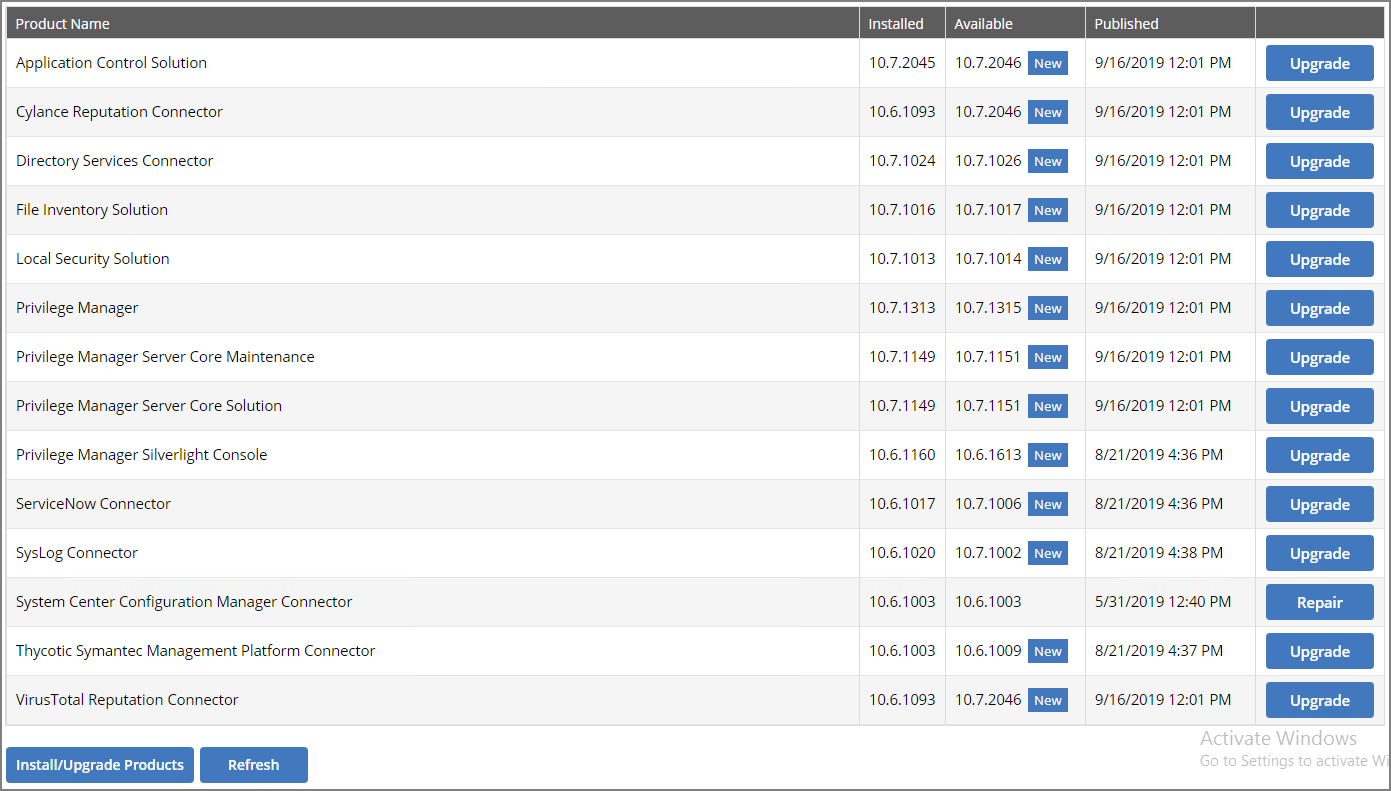
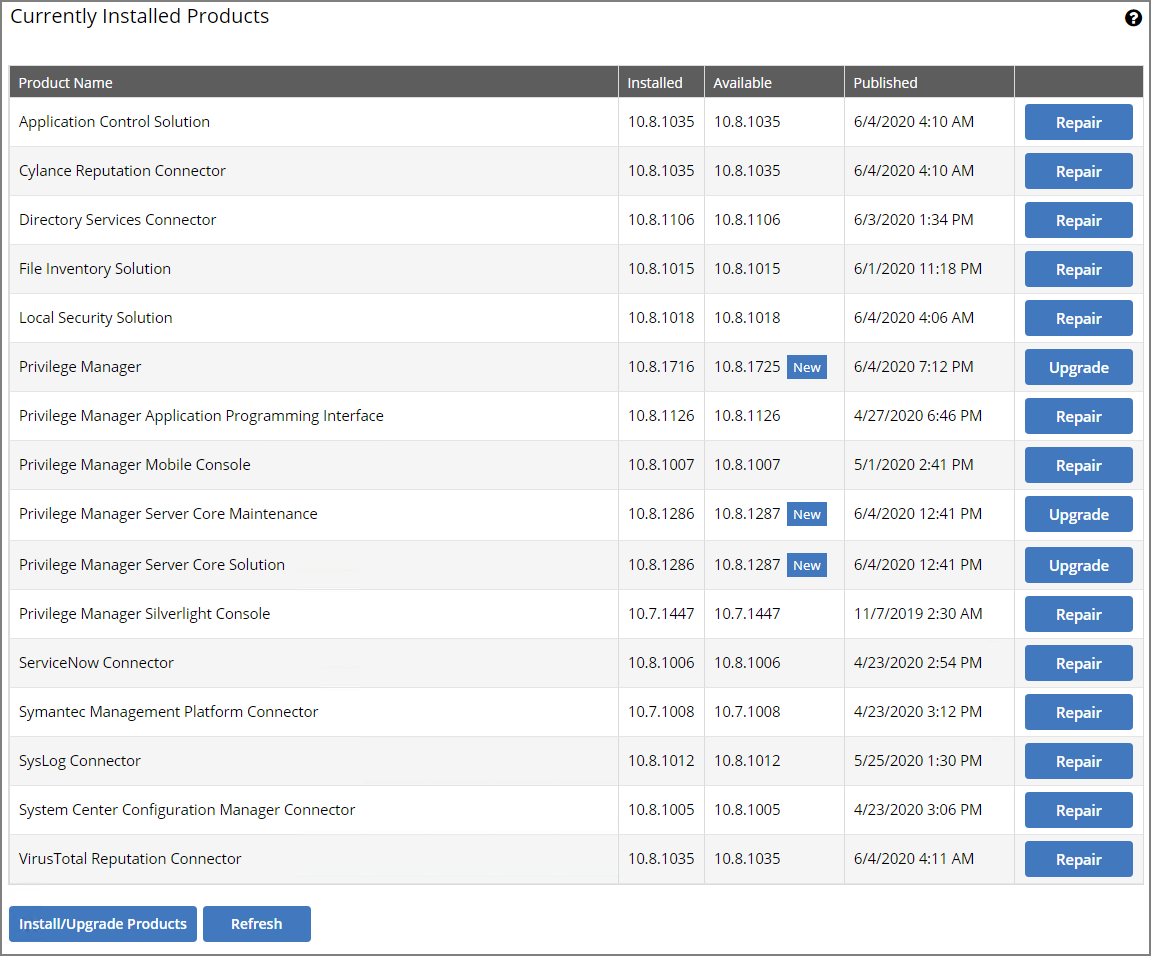
swapped images and edited text

Changed region(s): [[0.0, 0.0, 1.0, 1.0]]

diff --git a/install/upgrades/index.md b/install/upgrades/index.md
@@ -43,17 +43,21 @@ Privilege Manager provides an __Update Available__ notification banner when upda
    ![start upgrade](images/setup-start.png "Setup provided version information with Start Upgrade option")
 
    Click __Start Upgrade__.
-1. The Currently Installed Products page displays a table listing all the products by name in alphabetical order.
+1. A short _Install Complete_ message is displayed before the setup process navigates to the __Currently Installed Products__ page. The available product updates are listed by product name in alphabetical order.
 
-   ![Installed Products overview](images/package-screen.png) <!-- TODO: update the image with 10.8 based info -->
+   ![products overview](images/package-screen.png "Products overview")
 
    Use either of the following ways to upgrade your environment to the latest Privilege Manager version:
-   1. Click Upgrade next to individual packages, this will require to come back to the Installed Products page after each separate upgrade for most of the packages, or
+   1. Click Upgrade next to individual packages, this will require to come back to the Installed Products page after each separate upgrade for most of the packages, __or__
    1. Click __Install/Upgrade Products__ at the bottom of the page.
       1. Select the products you want to install/upgrade.
 
-         ![Select which products to install](images/install-products-select.png)
-      1. Select __Install__.
+         ![Select which products to install](images/install-products-select.png "Select Products to install")
+
+         By default the products available for upgrade are listed. If you want to see all products currently installed, click __Show installed products__.
+
+         ![Select which products to install](images/install-products-select-all.png "Installed Products page showing all products")
+      1. Click __Install__.
 
 The installation/upgrade process starts and you can view the log while products are being installed.
 
